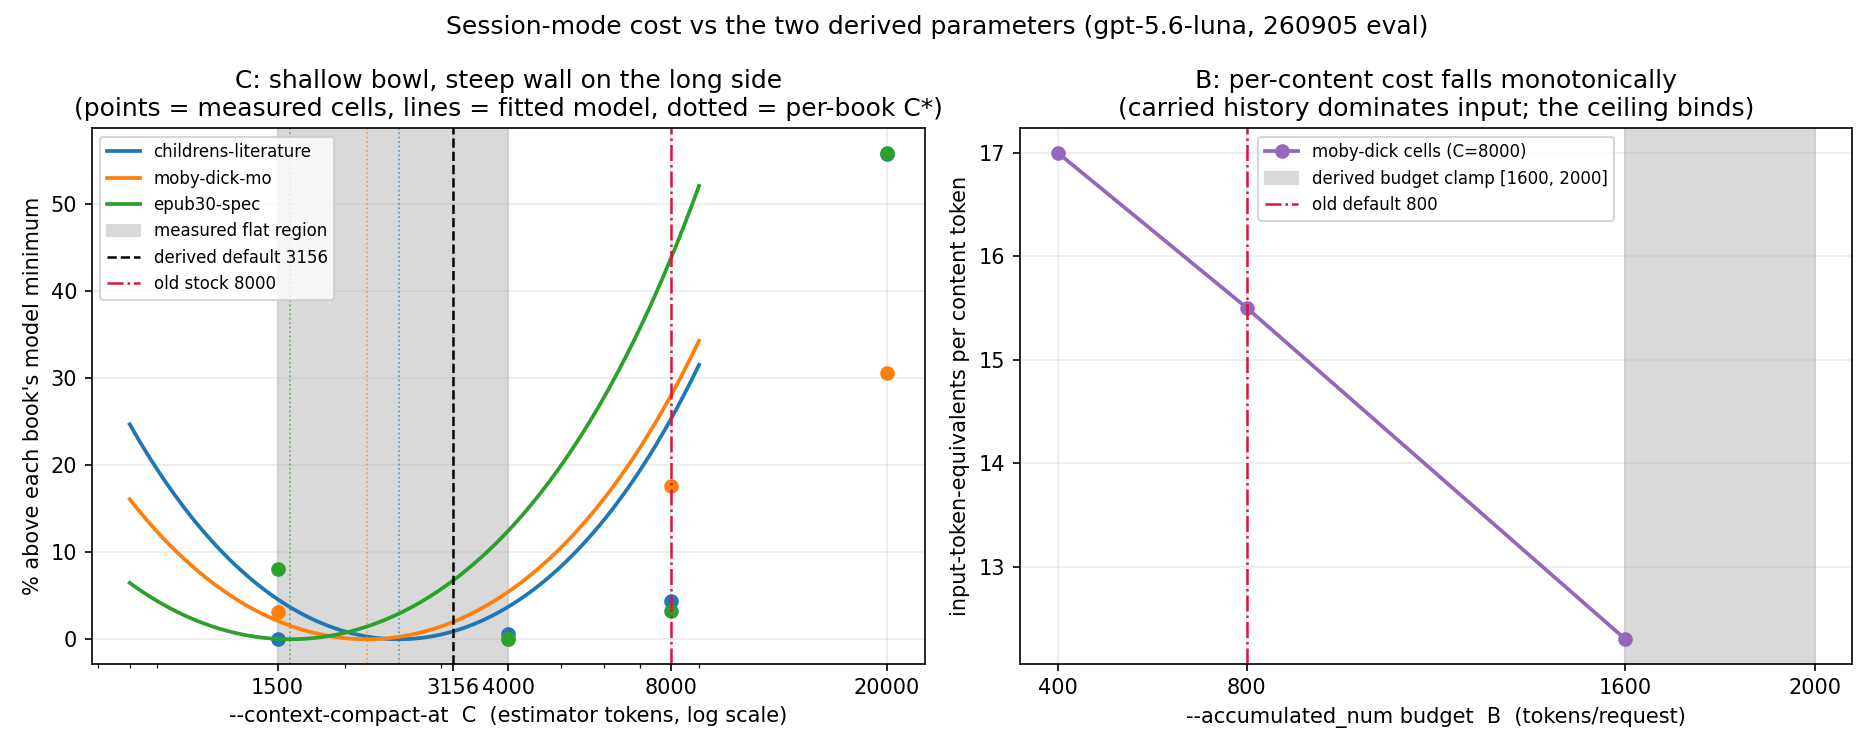
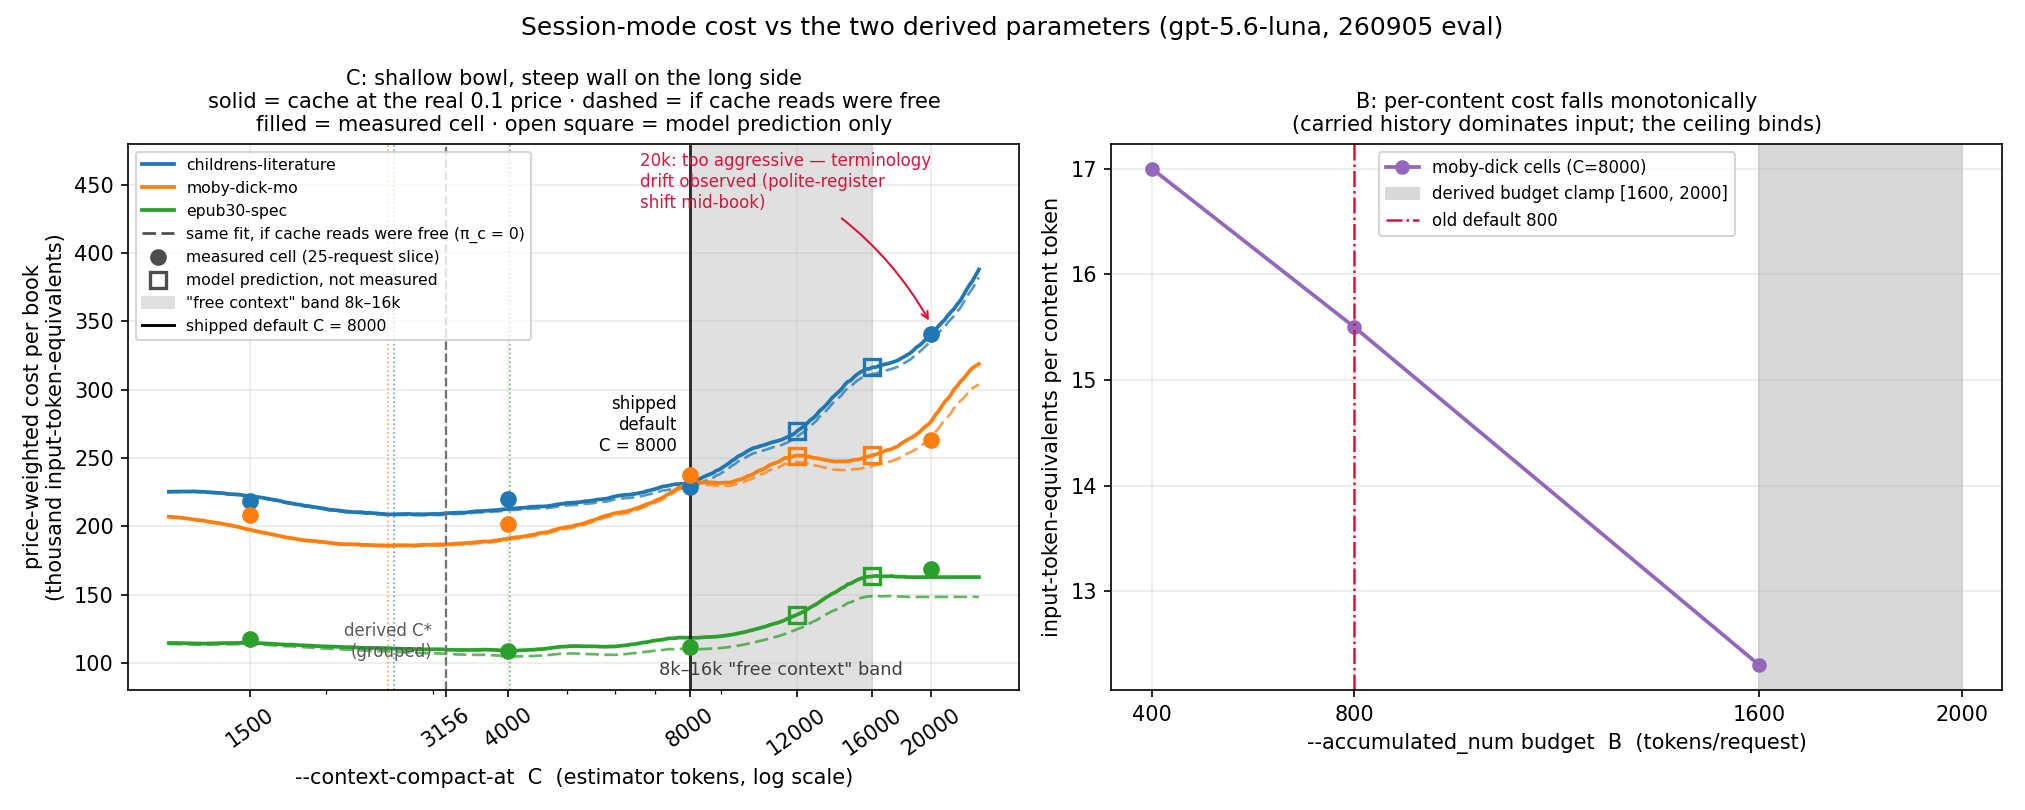
docs(eval): the figure carries its finite-run model, and C is pinned at 8000
Panel A rebuilt on absolute cost with the run's sawtooth simulated (the
dots sit on their curves now); predicted open squares at 12k/16k; the
dashed cache-free companion curves record the corrected finding — the
long-C wall is a token-count effect, not a cache-price effect. Sections
5, 7, 8 and 9 follow the shipped surface: the pinned 8000 default and
its honest price, and the --max-batch-units spelling.

diff --git a/docs/session-grouping-eval.md b/docs/session-grouping-eval.md
@@ -4,9 +4,9 @@ A measurement report, September 2026. This documents (a) the grouping
 strategy plan mode uses to batch translation units, (b) the paid
 evaluation (18 runs, `gpt-5.6-luna`, 3.27M tokens, three books from
 [epub-samples](https://github.com/IDPF/epub-samples)) that the session-mode
-defaults for `--accumulated_num` and `--context-compact-at` are derived
+defaults for `--accumulated_num` and `--context-compact-at` come
 from, and (c) the follow-up fault-emergence sweep (76 cells, 923
-requests, four books, two models) that the `--batch_units` default is
+requests, four books, two models) that the `--max-batch-units` default is
 derived from — plus how to pick these parameters for your own endpoint
 (§7). Raw artifacts (per-cell logs, handoff reports, bilingual epubs,
 ledgers) live outside the repository; every number used below is
@@ -21,7 +21,7 @@ with **token-budget batches**:
 - The book's translatable units are grouped, in document order, into
   requests of at most **32 units** (16 on endpoints without a strict
   JSON-schema verdict — see §6) and at most **B tokens** of source text
-  (`--accumulated_num` is B; `--batch_units` is the unit cap). Nothing is
+  (`--accumulated_num` is B; `--max-batch-units` is the unit cap). Nothing is
   split mid-unit; a unit larger than B travels alone.
 - Inline markup inside a unit (links, emphasis, spans) is replaced by
   numbered markers `⟦tag1⟧…⟦tagN⟧` before translation and restored after,
@@ -136,9 +136,31 @@ price-weighted cost per book:
 | epub30-spec | 117.2k | **108.4k** | 111.9k | 169.0k | 1580 |
 
 Flat within 0.6–3% across [1500, 4000] on all three books — inside
-single-run noise, and all three solved C* land in that region. The stock
-8000 sits 4–18% above it; C=20000 costs up to 56% more. Being wrong short
+single-run noise, and all three solved C* land in that region. C=8000
+sits 9–25% above C*; C=20000 costs up to 56% more. Being wrong short
 is nearly free; being wrong long is not.
+
+The figure's curves are the §4 cost model evaluated on the same finite
+25-request run as the cells (window sawtooth simulated, measured per-C α
+interpolated), so the dots sit on their own curves; the open squares at
+C=12000 and C=16000 are **model predictions, not measured cells**. The
+dashed companion curves re-price cache reads at zero, and they answer a
+question we had wrong until we ran it: the long-C wall barely moves
+(−2 to −8 points) even if cache were free, because at these budgets only
+0.1–0.2 of the carried history is cached at all on prose. **The wall is
+a token-count effect, not a cache-price effect** — a free-cache endpoint
+does not buy you a long C.
+
+**Why the default is pinned at C=8000 anyway.** The shaded 8k–16k band
+is where a typical run makes 0–1 compactions, so there are almost no
+seams to drift across — a *continuity* argument, bought at a real,
+quantified price (+10% to +50% over C* across the band). 8000 is the
+short edge of that band: at most ~25% over the optimum on the worst
+book, which we treat as inside the don't-care zone (<30% on a single
+run is noise-adjacent), while 20000 is past it — that cell showed the
+grid's only drift *and* costs up to 56% more. Pinning one number also
+beats deriving one: the derivation moved the default by less than the
+don't-care zone, at the price of a per-run moving target.
 
 **B — the ceiling wins.** At fixed C, input cost is nearly flat in B
 (129k / 132k / 147k at B = 400 / 800 / 1600) because carried history, not
@@ -202,14 +224,14 @@ observed. Measured retry overhead at those defaults is 0–25%.
 ## 7. Choosing the parameters for your endpoint
 
 Everything below is a default-tuning guide; leaving all three flags
-unset is correct on every route, because the run probes the endpoint
-and derives them.
+unset is correct on every route: the run probes the endpoint, derives
+the request budget from its own prompt overhead, and pins the rest.
 
 - **Endpoint verifies a strict JSON schema** (the official OpenAI API):
   the full cap (32) applies and every reply is schema-checked. Nothing
   to change.
 - **Endpoint accepts JSON mode but not a strict schema**: the run
-  halves the cap to 16 by itself. Do not raise `--batch_units` to undo
+  halves the cap to 16 by itself. Do not raise `--max-batch-units` to undo
   it — the halved tier is where miscounted replies were actually
   observed.
 - **No structured output at all** (the ChatGPT-plan/codex route, many
@@ -228,19 +250,21 @@ and derives them.
   exist to absorb exactly that. So: don't pre-shrink the caps for a
   router; let the probe grade it.
 - **Weaker or smaller models**: don't pre-emptively lower
-  `--batch_units` either — the sweep's weak model held format better
+  `--max-batch-units` either — the sweep's weak model held format better
   than the strong one. Lower it (to 16, then 8) only when a run prints
   the misalignment hint (`N misaligned batches this run — consider a
-  lower --batch_units or --accumulated_num`), which appears from the
+  lower --max-batch-units or --accumulated_num`), which appears from the
   third recovered batch on.
 - **`--accumulated_num`**: leave unset (the derived 1600–2000 band).
   Raising it toward 4800 produced no faults, but retry cost climbs past
   the ceiling and per-content savings flatten — the measured optimum is
   the derived band.
-- **`--context-compact-at`**: leave unset; the cost curve is flat
-  across 1500–4000 and the derived value lands inside it. Only a run
-  with an unusually fat custom `--prompt` moves it, and the derivation
-  already accounts for that.
+- **`--context-compact-at`**: leave unset; every session run compacts
+  at the pinned 8000 (§5, §8). Set it lower (toward 2000–4000) only if
+  squeezing the last ~10–25% of session cost matters more to you than
+  having the fewest window seams; set it higher never — past 16000 the
+  cost wall is steep and the only drift we ever observed lived in the
+  long-window cell.
 
 ## 8. The shipped defaults
 
@@ -250,16 +274,25 @@ equations, not constants, because prompt overhead is user-customizable
 
 ```
 B_default = clamp( 3·F, 1600, 2000 )          # F = measured prompt overhead
-C_default = clamp( √(2 · 1.4·B · (72 + 4.0·538)), 1500, 4000 )   # grouped runs
+C_default = 8000                              # pinned, every session run
 ```
 
-With the stock prompts F ≈ 104–111, so B defaults to the floor 1600 and
-C to **3156** — inside the measured flat region. F does not appear in
-C* (it drops out of the derivative); prompt growth reaches C only
-through B. Ungrouped session runs keep the old 8000: the fit was not
-measured on per-paragraph exchanges, and extrapolating below the
-measured range is guesswork. The clamps are pinned rather than fitted
-because the curve is flat — the grid cannot resolve differences of 0.6%.
+With the stock prompts F ≈ 104–111, so B defaults to the floor 1600. F
+does not appear in a compaction optimum (it drops out of the
+derivative); prompt growth reaches C only through B.
+
+C is **pinned, not derived** — a deliberate simplification over the
+earlier derived value (~3156). The measured case for it: the per-book
+optima solve to 1580–2512 and the 1500–4000 region is flat within
+single-run noise, but everything up to ~16000 stays inside a <30%
+penalty — a don't-care zone for a single book run — while 8000 is the
+short edge of the band where a run compacts 0–1 times, so it buys the
+fewest seams at the smallest premium (9–25% over C*, §5). Terminology
+held across 44 seams in the validation run and the only drift ever
+observed was *within* a long window, so the seams 8000 still makes are
+the cheap side of that trade. A pinned number also never moves between
+runs, which the derived one did — by less than the noise band it sat
+in, which is exactly why it did not earn its complexity.
 
 ## 9. Reproducing a cell
 
@@ -271,6 +304,6 @@ python make_book.py --book_name childrens-literature.epub \
 ```
 
 Leave `--context-compact-at` and `--accumulated_num` unset to get the
-derived defaults; the run narrates them
-(`session: compacting at ~3156 estimated tokens (derived from the
-1600-token request budget; --context-compact-at overrides)`).
+defaults; the run narrates them
+(`session: compacting at 8000 estimated tokens (the default;
+--context-compact-at overrides)`).
